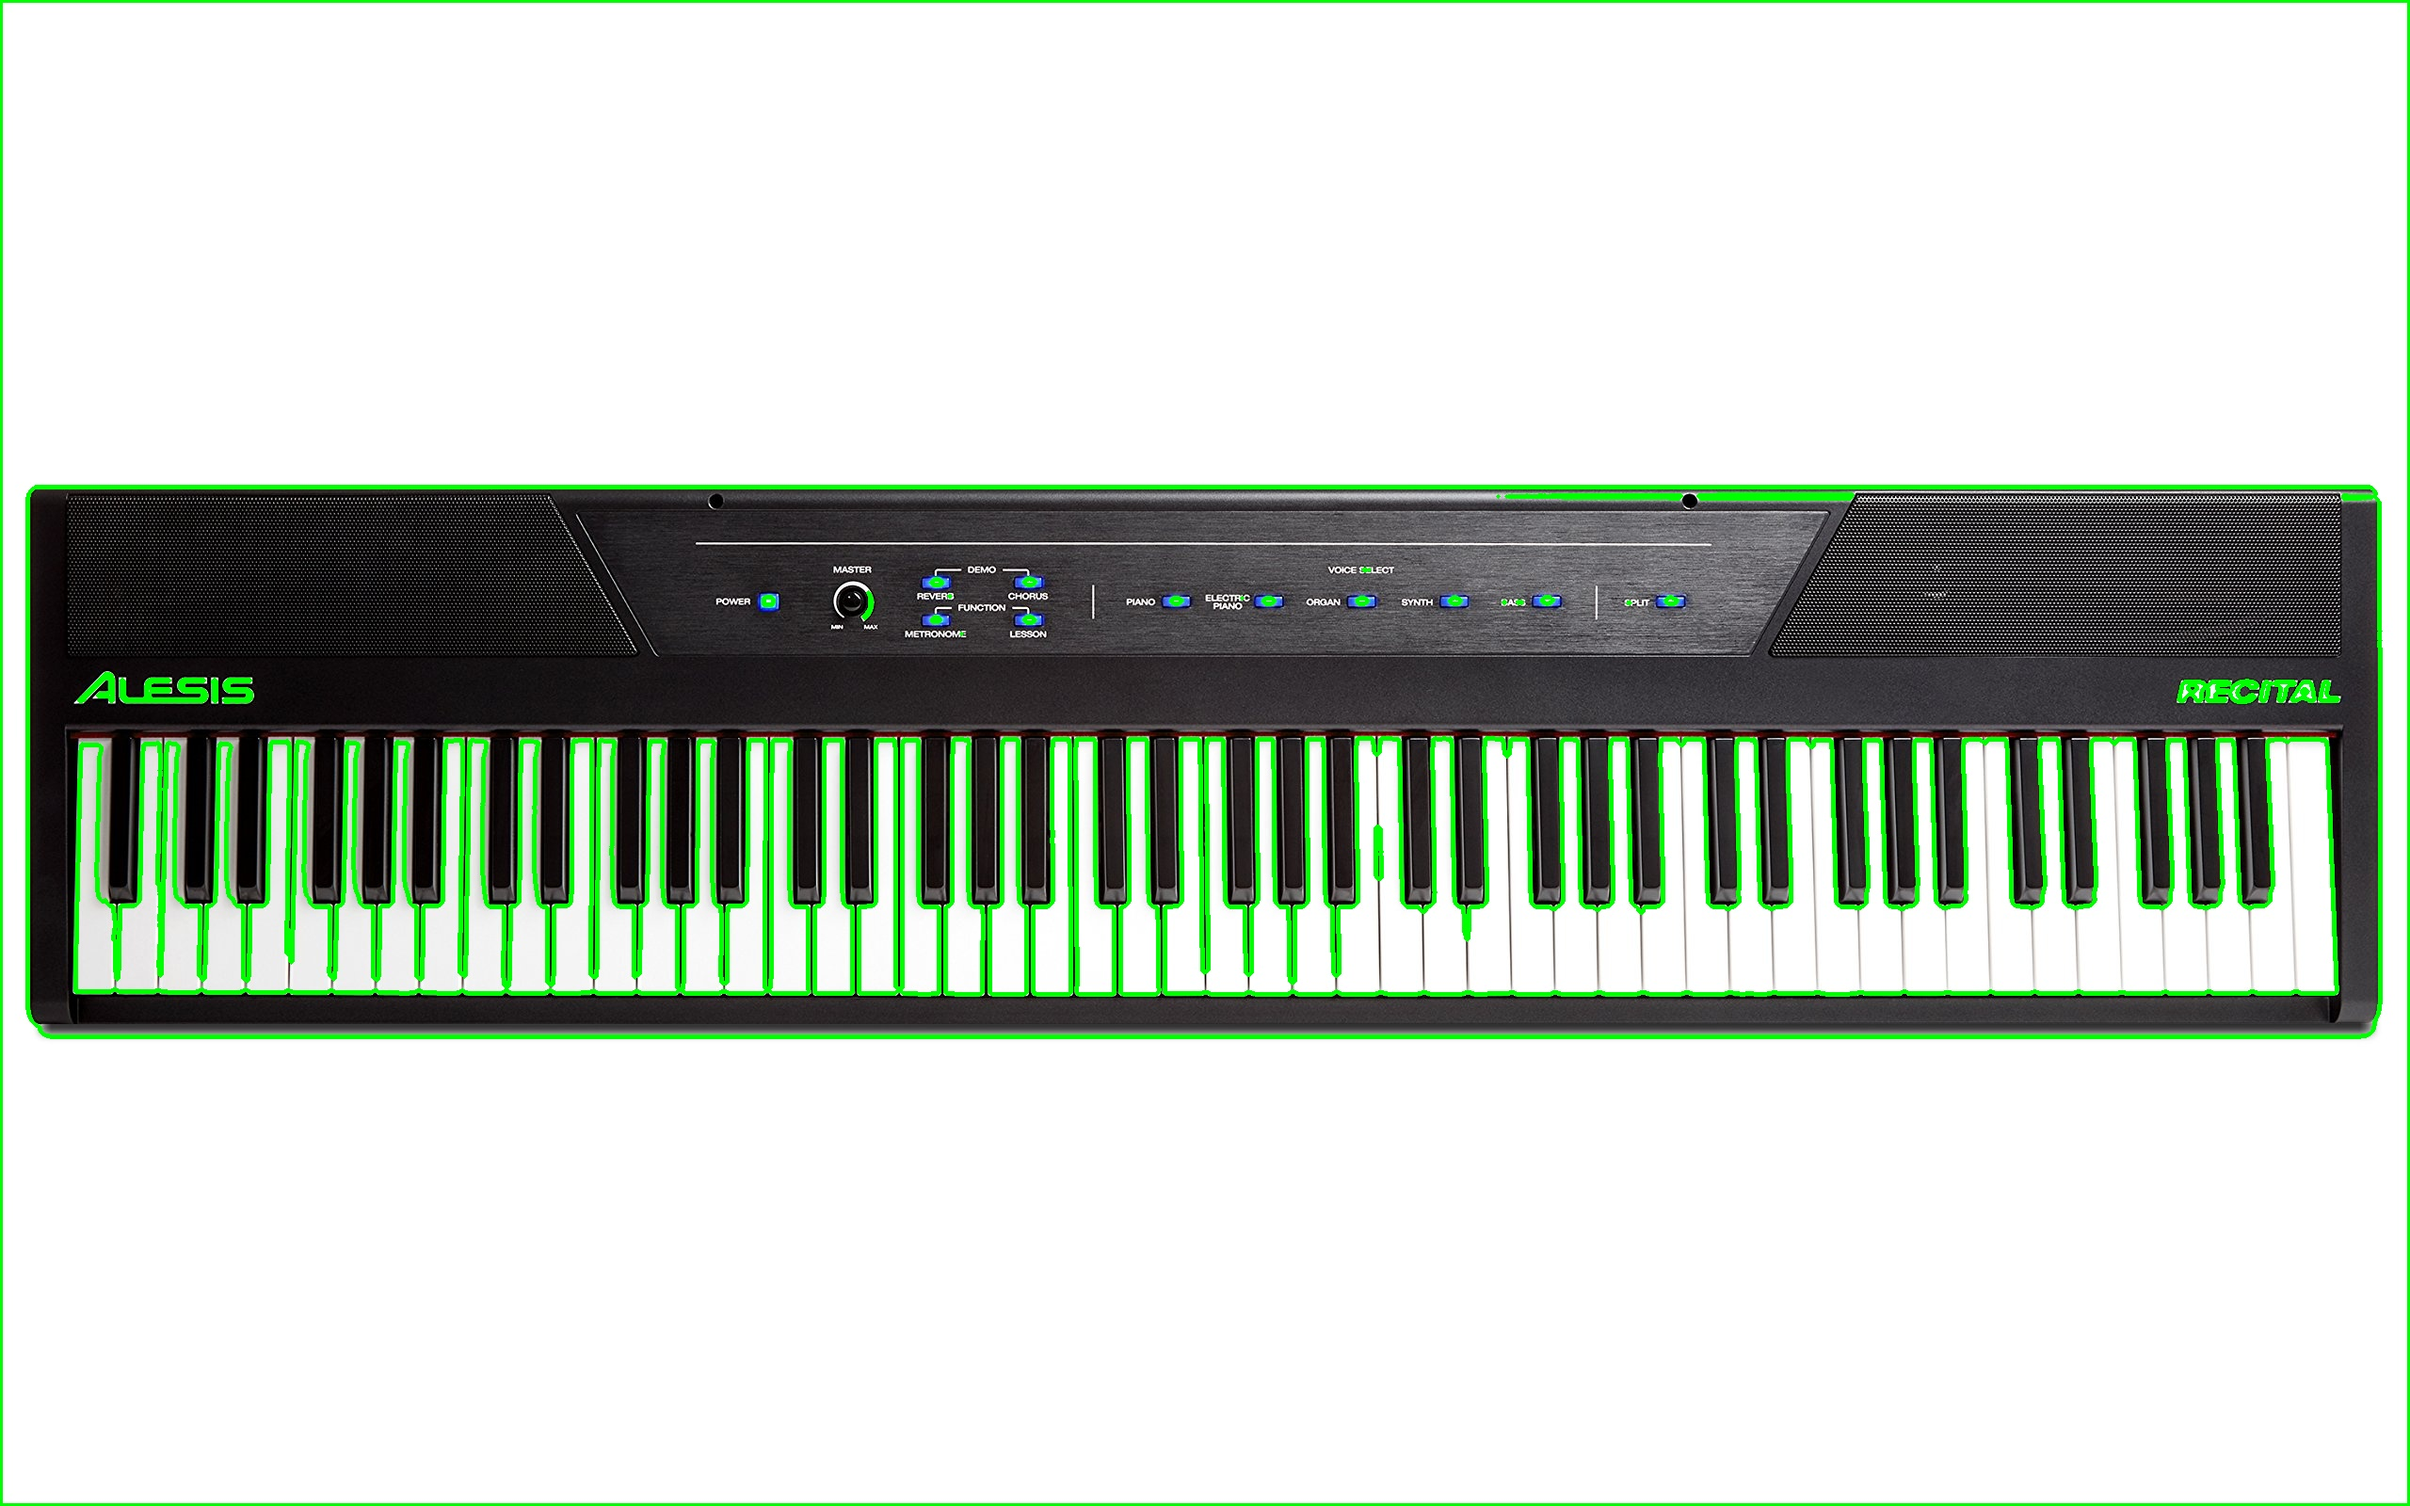
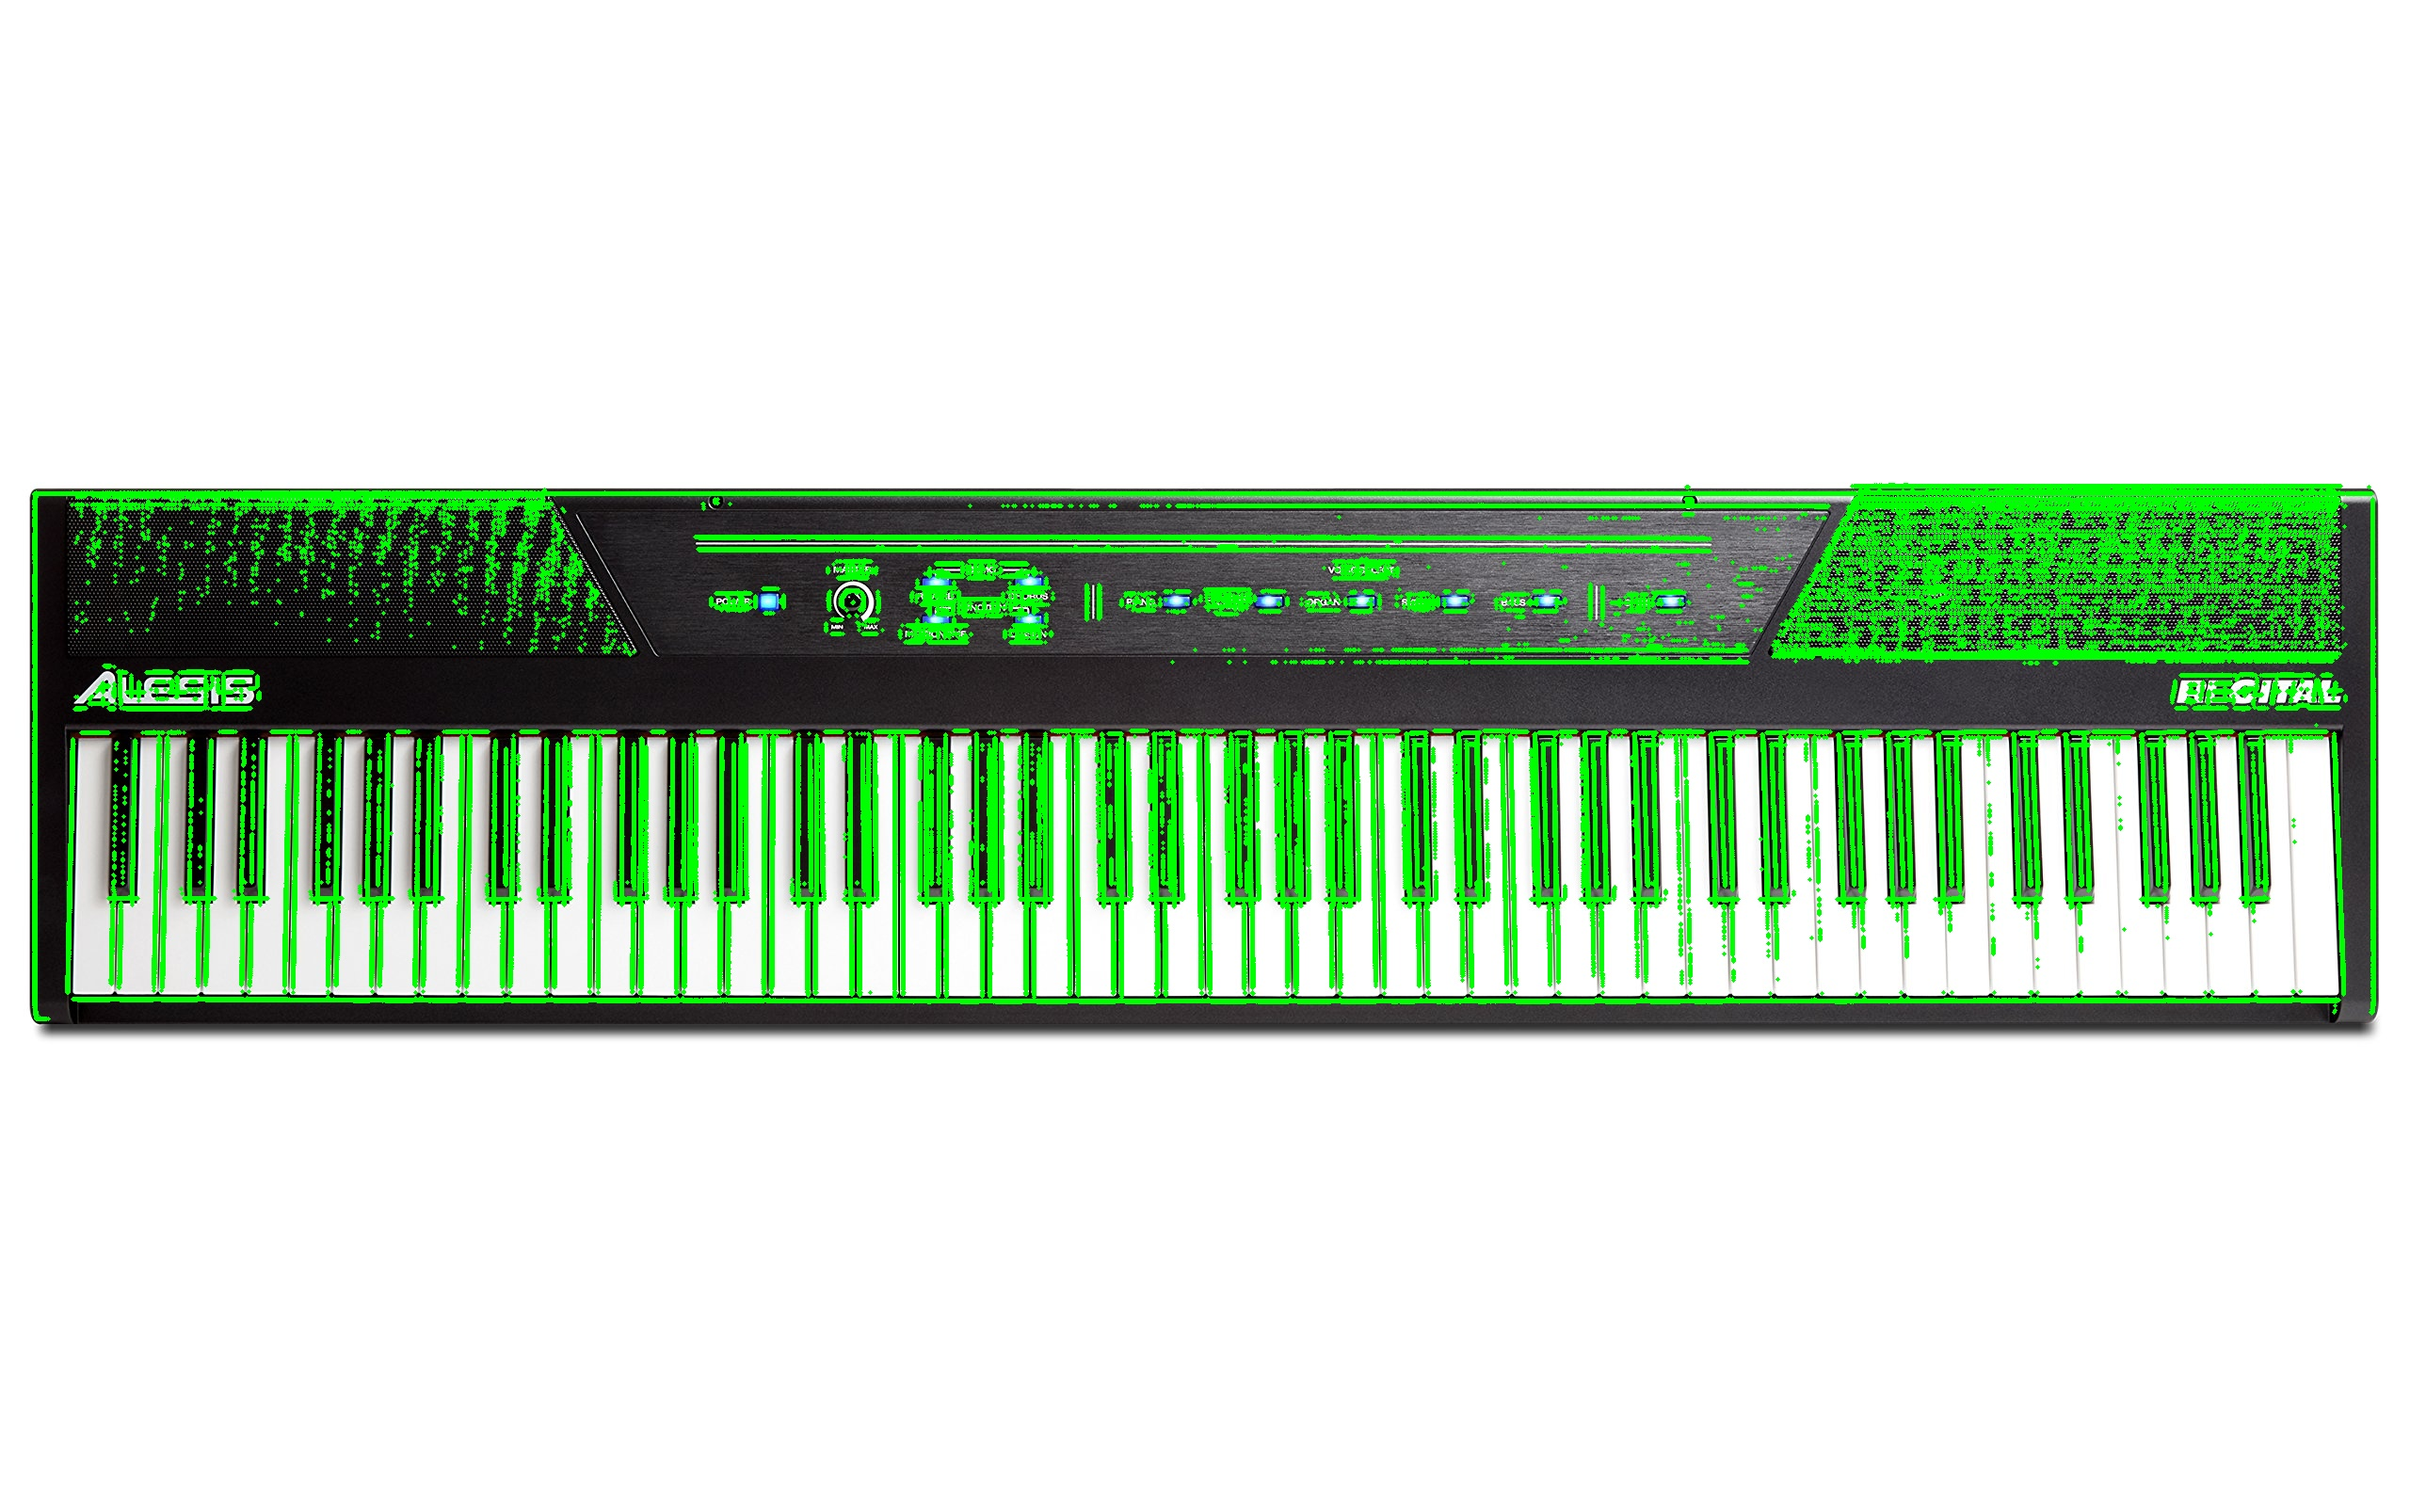
removed backgroud

diff --git a/src/img_proc.py b/src/img_proc.py
@@ -8,12 +8,20 @@ class ImgProc:
         img = cv2.imread(src_img_path)
         # Convert it to greyscale
         grey = cv2.cvtColor(img, cv2.COLOR_BGR2GRAY)
-        blur = cv2.GaussianBlur(grey,(7,7),sigmaX=500,sigmaY=500)
+        blur = cv2.GaussianBlur(grey,(11,11),sigmaX=500,sigmaY=500)
+        cv2.imwrite('img/blur.jpg',blur)
         # Threshold the image
-        ret, thresh = cv2.threshold(blur,190,255,cv2.THRESH_BINARY)
+        #ret, thresh = cv2.threshold(blur,190,255,cv2.THRESH_BINARY)
+        thresh = cv2.adaptiveThreshold(blur,255,cv2.ADAPTIVE_THRESH_GAUSSIAN_C,cv2.THRESH_BINARY,3,2)
+        thresh = (255-thresh)
+
         cv2.imwrite('img/thresh.jpg',thresh)
         # Find the contours
         contours, hierarchy = cv2.findContours(thresh, cv2.RETR_TREE, cv2.CHAIN_APPROX_SIMPLE)
+        img1 = img.copy()
+
+        cv2.drawContours(img1, contours, -1, (0,255,0), 3)
+        cv2.imwrite('img/contours.jpg',img1)
         # For each contour, find the convex hull and draw it
         # on the original image.
 
@@ -29,6 +37,31 @@ class ImgProc:
         # Display the final convex hull image
         cv2.imwrite(dest_img_path, img)
         return hull
+    
+    def edge_lines(src_img_path,dest_img_path = 'img/lines.jpg'):
+        img = cv2.imread(src_img_path)
+        grey = cv2.cvtColor(img, cv2.COLOR_BGR2GRAY)
+        blur = cv2.GaussianBlur(grey,(11,11),sigmaX=500,sigmaY=500)
+        edges = cv2.Canny(blur, 50, 100)
+        cv2.imwrite('img/edges.jpg',edges)
+        lines = cv2.HoughLines(edges, 1, np.pi/180, 200)
+
+        for line in lines:
+            rho, theta = line[0]
+            
+            a = np.cos(theta)
+            b = np.sin(theta)
+
+            x0 = a * rho
+            y0 = b * rho
+            x1 = (int(x0 + 2000*(-b)))
+            y1 = (int(y0 + 2000*(a)))
+            x2 = (int(x0 - 2000*(-b)))
+            y2 = (int(y0 - 2000*(a)))
+            
+            cv2.line(img,(x1,y1),(x2,y2), (0,0,255),2)
+
+        cv2.imwrite('img/lines.jpg',img)
 
     def crop_img(src_img_path,hull, dest_img_path = 'img/cropped_keyboard.jpg'):
         img = cv2.imread(src_img_path)

diff --git a/src/main.py b/src/main.py
@@ -1,8 +1,9 @@
 from img_proc import ImgProc
 
 def main():
-    hull = ImgProc.convexHull('img/pressedkeyboard.png')
-    ImgProc.crop_img('img/pressedkeyboard.png',hull)
+    hull = ImgProc.convexHull('img/keyboard_unpressed.jpg')
+    ImgProc.edge_lines('img/keyboard_unpressed.jpg')
+    ImgProc.crop_img('img/keyboard_unpressed.jpg',hull)
     ImgProc.img_thresh('img/cropped_keyboard.jpg')
 
 
